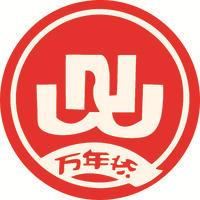
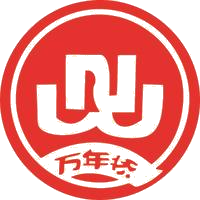
Pause marquee on hover; update brand images
Add a group wrapper to the marquee container and pause the marquee animation on hover using group-hover:[animation-play-state:paused]. Replace per-image grayscale/opacity hover effects with mix-blend-multiply for a more consistent visual blend. Also update two brand assets (public/assets/brands/rzbc.png and wannianhuo.png).

diff --git a/components/web/about.tsx b/components/web/about.tsx
@@ -139,7 +139,7 @@ export default function About() {
 
         {/* Track full-bleed rompiendo el px-6 de la sección */}
         <div
-          className="-mx-6 overflow-hidden"
+          className="-mx-6 overflow-hidden group"
           style={{
             maskImage:
               "linear-gradient(to right, transparent 0%, black 8%, black 92%, transparent 100%)",
@@ -147,7 +147,7 @@ export default function About() {
               "linear-gradient(to right, transparent 0%, black 8%, black 92%, transparent 100%)",
           }}
         >
-          <div className="animate-marquee flex w-max items-center gap-8 md:gap-16 will-change-transform">
+          <div className="animate-marquee flex w-max items-center gap-8 md:gap-16 will-change-transform group-hover:[animation-play-state:paused]">
             {TRACK.map((brand, i) => (
               <div key={i} className="flex h-14 w-28 shrink-0 items-center justify-center md:h-20 md:w-44">
                 <Image
@@ -155,7 +155,7 @@ export default function About() {
                   alt={brand.alt}
                   width={176}
                   height={80}
-                  className="max-h-10 w-auto max-w-[104px] object-contain grayscale opacity-50 transition-all duration-300 hover:grayscale-0 hover:opacity-100 md:max-h-16 md:max-w-[160px]"
+                  className="max-h-10 w-auto max-w-[104px] object-contain mix-blend-multiply md:max-h-16 md:max-w-[160px]"
                 />
               </div>
             ))}
